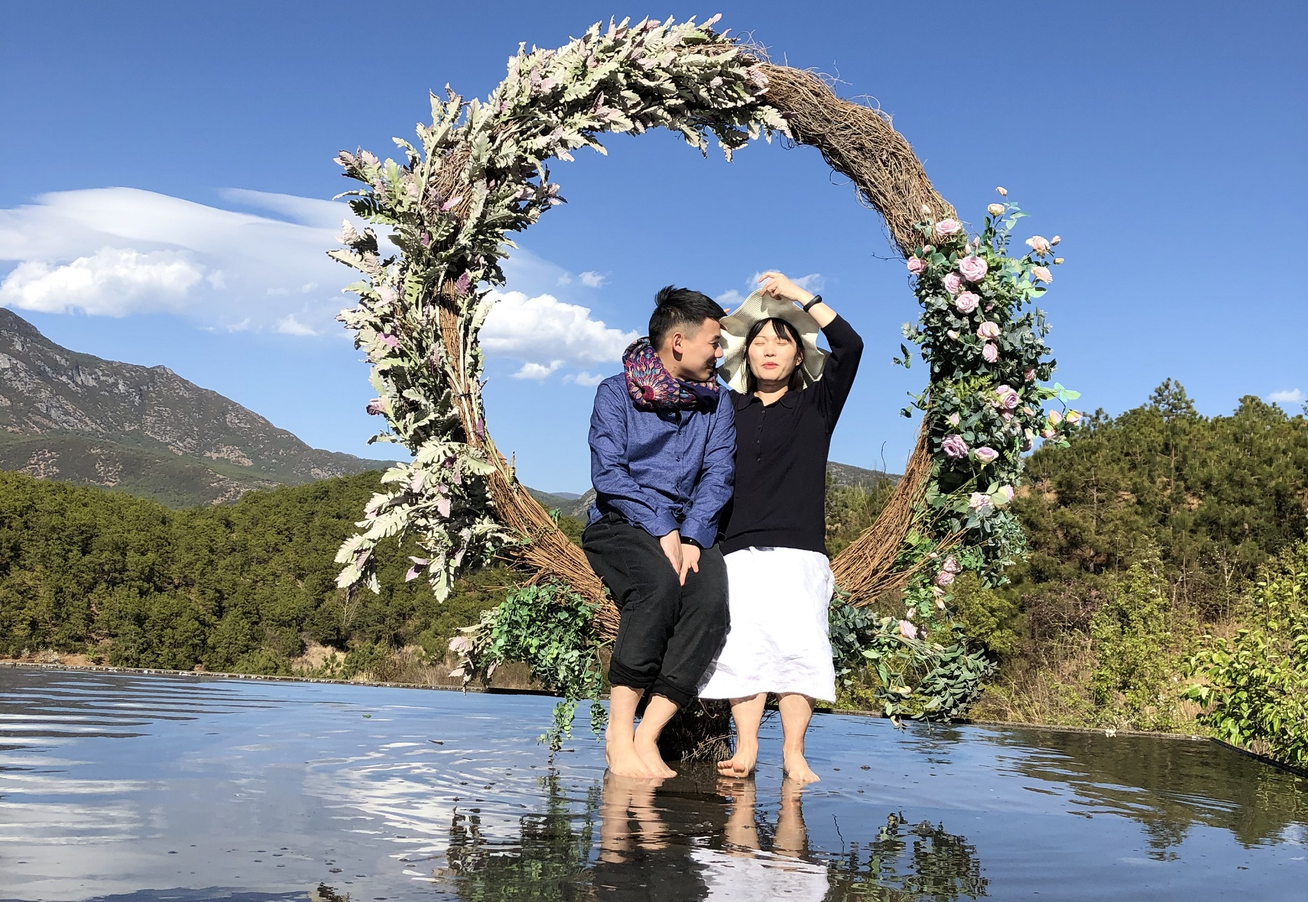
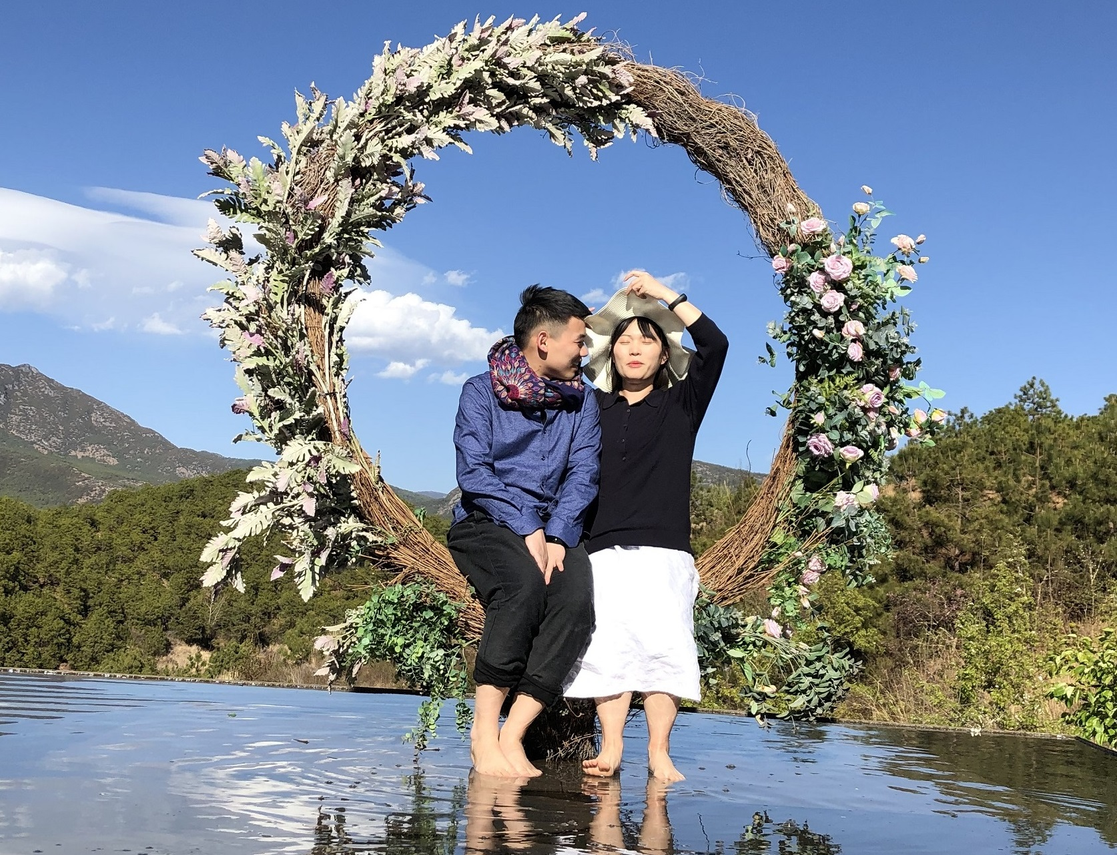
Site updated: 2020-04-03 17:39:28

diff --git a/index.html b/index.html
@@ -266,7 +266,7 @@
                   <i class="fa fa-calendar-check-o"></i>
                 </span>
                 <span class="post-meta-item-text">更新于</span>
-                <time title="修改时间：2020-04-03 15:48:20" itemprop="dateModified" datetime="2020-04-03T15:48:20+08:00">2020-04-03</time>
+                <time title="修改时间：2020-04-03 17:19:40" itemprop="dateModified" datetime="2020-04-03T17:19:40+08:00">2020-04-03</time>
               </span>
             <span class="post-meta-item">
               <span class="post-meta-item-icon">
@@ -348,7 +348,7 @@
                   <i class="fa fa-calendar-check-o"></i>
                 </span>
                 <span class="post-meta-item-text">更新于</span>
-                <time title="修改时间：2020-04-03 17:13:08" itemprop="dateModified" datetime="2020-04-03T17:13:08+08:00">2020-04-03</time>
+                <time title="修改时间：2020-04-03 17:37:06" itemprop="dateModified" datetime="2020-04-03T17:37:06+08:00">2020-04-03</time>
               </span>
             <span class="post-meta-item">
               <span class="post-meta-item-icon">
@@ -371,7 +371,7 @@
     <div class="post-body" itemprop="articleBody">
 
       
-          <p><img src="images\image_2020\ff1.JPG" align=center /></p>
+          <p><img src="images\image_2020\fj2.JPG" align=center /></p>
 <p>        摄像机的标定要从成像谈起。物理世界中的三维物体映射到二维图像上的位置与物体、相机的几何位置相关。而他们之间的相互关系取决于摄像机使用怎么样的成像几何模型。这些几何模型的参数便是所谓的摄像机参数…</p>
           <!--noindex-->
             <div class="post-button">
@@ -430,7 +430,7 @@
                   <i class="fa fa-calendar-check-o"></i>
                 </span>
                 <span class="post-meta-item-text">更新于</span>
-                <time title="修改时间：2020-04-03 15:49:51" itemprop="dateModified" datetime="2020-04-03T15:49:51+08:00">2020-04-03</time>
+                <time title="修改时间：2020-04-03 17:34:16" itemprop="dateModified" datetime="2020-04-03T17:34:16+08:00">2020-04-03</time>
               </span>
             <span class="post-meta-item">
               <span class="post-meta-item-icon">
@@ -453,10 +453,11 @@
     <div class="post-body" itemprop="articleBody">
 
       
-          <p>本文包括编写独立函数时需要注意的一些基本原则，以及开发过程中推荐的做法。每当我遇到更好的方法，推荐做法将会及时更新和补充。</p>
+          <p><img src="images/image_2020/fj3.jpg" align=center/></p>
+<p>本文包括编写独立函数时需要注意的一些基本原则，以及开发过程中推荐的做法。每当我遇到更好的方法，推荐做法将会及时更新和补充。</p>
           <!--noindex-->
             <div class="post-button">
-              <a class="btn" href="/2019/11/24/C++%E5%87%BD%E6%95%B0%E7%9A%84%E4%BD%BF%E7%94%A8%E5%B0%8F%E7%BB%86%E8%8A%82/">
+              <a class="btn" href="/2019/11/24/C++%E5%87%BD%E6%95%B0%E7%9A%84%E4%BD%BF%E7%94%A8%E5%B0%8F%E7%BB%86%E8%8A%82/#more" rel="contents">
                 阅读全文 &raquo;
               </a>
             </div>
@@ -511,7 +512,7 @@
                   <i class="fa fa-calendar-check-o"></i>
                 </span>
                 <span class="post-meta-item-text">更新于</span>
-                <time title="修改时间：2020-04-03 15:53:56" itemprop="dateModified" datetime="2020-04-03T15:53:56+08:00">2020-04-03</time>
+                <time title="修改时间：2020-04-03 17:17:40" itemprop="dateModified" datetime="2020-04-03T17:17:40+08:00">2020-04-03</time>
               </span>
             <span class="post-meta-item">
               <span class="post-meta-item-icon">
@@ -593,7 +594,7 @@
                   <i class="fa fa-calendar-check-o"></i>
                 </span>
                 <span class="post-meta-item-text">更新于</span>
-                <time title="修改时间：2020-04-03 17:13:04" itemprop="dateModified" datetime="2020-04-03T17:13:04+08:00">2020-04-03</time>
+                <time title="修改时间：2020-04-03 17:35:34" itemprop="dateModified" datetime="2020-04-03T17:35:34+08:00">2020-04-03</time>
               </span>
             <span class="post-meta-item">
               <span class="post-meta-item-icon">
@@ -616,7 +617,7 @@
     <div class="post-body" itemprop="articleBody">
 
       
-          <p><img src="images\image_2020\ff1.JPG" align=center /></p>
+          <p><img src="images\image_2020\fj4.JPG" align=center /></p>
           <!--noindex-->
             <div class="post-button">
               <a class="btn" href="/2019/10/13/PylonAPI%E6%A6%82%E8%BF%B0/#more" rel="contents">

diff --git a/2020/02/13/摄像机线性标定方法简述/index.html b/2020/02/13/摄像机线性标定方法简述/index.html
@@ -27,12 +27,12 @@
 <meta property="og:site_name" content="EZhang">
 <meta property="og:description" content="        摄像机的标定要从成像谈起。物理世界中的三维物体映射到二维图像上的位置与物体、相机的几何位置相关。而他们之间的相互关系取决于摄像机使用怎么样的成像几何模型。这些几何模型的参数便是所谓的摄像机参数…">
 <meta property="og:locale" content="zh_CN">
-<meta property="og:image" content="https://gusthestorm.github.io/2020/02/13/%E6%91%84%E5%83%8F%E6%9C%BA%E7%BA%BF%E6%80%A7%E6%A0%87%E5%AE%9A%E6%96%B9%E6%B3%95%E7%AE%80%E8%BF%B0/images/image_2020/ff1.JPG">
+<meta property="og:image" content="https://gusthestorm.github.io/2020/02/13/%E6%91%84%E5%83%8F%E6%9C%BA%E7%BA%BF%E6%80%A7%E6%A0%87%E5%AE%9A%E6%96%B9%E6%B3%95%E7%AE%80%E8%BF%B0/images/image_2020/fj2.JPG">
 <meta property="article:published_time" content="2020-02-13T08:07:42.000Z">
-<meta property="article:modified_time" content="2020-04-03T09:13:08.682Z">
+<meta property="article:modified_time" content="2020-04-03T09:37:06.242Z">
 <meta property="article:author" content="ZhangYi">
 <meta name="twitter:card" content="summary">
-<meta name="twitter:image" content="https://gusthestorm.github.io/2020/02/13/%E6%91%84%E5%83%8F%E6%9C%BA%E7%BA%BF%E6%80%A7%E6%A0%87%E5%AE%9A%E6%96%B9%E6%B3%95%E7%AE%80%E8%BF%B0/images/image_2020/ff1.JPG">
+<meta name="twitter:image" content="https://gusthestorm.github.io/2020/02/13/%E6%91%84%E5%83%8F%E6%9C%BA%E7%BA%BF%E6%80%A7%E6%A0%87%E5%AE%9A%E6%96%B9%E6%B3%95%E7%AE%80%E8%BF%B0/images/image_2020/fj2.JPG">
 
 <link rel="canonical" href="https://gusthestorm.github.io/2020/02/13/%E6%91%84%E5%83%8F%E6%9C%BA%E7%BA%BF%E6%80%A7%E6%A0%87%E5%AE%9A%E6%96%B9%E6%B3%95%E7%AE%80%E8%BF%B0/">
 
@@ -195,7 +195,7 @@
                   <i class="fa fa-calendar-check-o"></i>
                 </span>
                 <span class="post-meta-item-text">更新于</span>
-                <time title="修改时间：2020-04-03 17:13:08" itemprop="dateModified" datetime="2020-04-03T17:13:08+08:00">2020-04-03</time>
+                <time title="修改时间：2020-04-03 17:37:06" itemprop="dateModified" datetime="2020-04-03T17:37:06+08:00">2020-04-03</time>
               </span>
             <span class="post-meta-item">
               <span class="post-meta-item-icon">
@@ -225,7 +225,7 @@
     <div class="post-body" itemprop="articleBody">
 
       
-        <p><img src="images\image_2020\ff1.JPG" align=center /></p>
+        <p><img src="images\image_2020\fj2.JPG" align=center /></p>
 <p>        摄像机的标定要从成像谈起。物理世界中的三维物体映射到二维图像上的位置与物体、相机的几何位置相关。而他们之间的相互关系取决于摄像机使用怎么样的成像几何模型。这些几何模型的参数便是所谓的摄像机参数…</p>
 <a id="more"></a>
 <h3 id="摄像机标定（Camera-Calibration）-理论基础与线性标定方法简述"><a href="#摄像机标定（Camera-Calibration）-理论基础与线性标定方法简述" class="headerlink" title="摄像机标定（Camera Calibration）- 理论基础与线性标定方法简述"></a>摄像机标定（Camera Calibration）- 理论基础与线性标定方法简述</h3><p>        摄像机的标定要从成像谈起。物理世界中的三维物体映射到二维图像上的位置与物体、相机的几何位置相关。而他们之间的相互关系取决于摄像机使用怎么样的成像几何模型。这些几何模型的参数便是所谓的摄像机参数，这些参数的实验与计算过程就是所谓的摄像机标定。本次我们要讨论的是基于线性模型的摄像机标定。</p>

diff --git a/2019/11/24/C++函数的使用小细节/index.html b/2019/11/24/C++函数的使用小细节/index.html
@@ -27,10 +27,12 @@
 <meta property="og:site_name" content="EZhang">
 <meta property="og:description" content="本文包括编写独立函数时需要注意的一些基本原则，以及开发过程中推荐的做法。每当我遇到更好的方法，推荐做法将会及时更新和补充。">
 <meta property="og:locale" content="zh_CN">
+<meta property="og:image" content="https://gusthestorm.github.io/2019/11/24/C++%E5%87%BD%E6%95%B0%E7%9A%84%E4%BD%BF%E7%94%A8%E5%B0%8F%E7%BB%86%E8%8A%82/images/image_2020/fj3.jpg">
 <meta property="article:published_time" content="2019-11-24T13:37:55.000Z">
-<meta property="article:modified_time" content="2020-04-03T07:49:51.734Z">
+<meta property="article:modified_time" content="2020-04-03T09:34:16.538Z">
 <meta property="article:author" content="ZhangYi">
 <meta name="twitter:card" content="summary">
+<meta name="twitter:image" content="https://gusthestorm.github.io/2019/11/24/C++%E5%87%BD%E6%95%B0%E7%9A%84%E4%BD%BF%E7%94%A8%E5%B0%8F%E7%BB%86%E8%8A%82/images/image_2020/fj3.jpg">
 
 <link rel="canonical" href="https://gusthestorm.github.io/2019/11/24/C++%E5%87%BD%E6%95%B0%E7%9A%84%E4%BD%BF%E7%94%A8%E5%B0%8F%E7%BB%86%E8%8A%82/">
 
@@ -193,7 +195,7 @@
                   <i class="fa fa-calendar-check-o"></i>
                 </span>
                 <span class="post-meta-item-text">更新于</span>
-                <time title="修改时间：2020-04-03 15:49:51" itemprop="dateModified" datetime="2020-04-03T15:49:51+08:00">2020-04-03</time>
+                <time title="修改时间：2020-04-03 17:34:16" itemprop="dateModified" datetime="2020-04-03T17:34:16+08:00">2020-04-03</time>
               </span>
             <span class="post-meta-item">
               <span class="post-meta-item-icon">
@@ -213,7 +215,6 @@
               <span class="post-meta-item-text">阅读次数：</span>
               <span id="busuanzi_value_page_pv"></span>
             </span>
-            <div class="post-description">本文包括编写独立函数时需要注意的一些基本原则，以及开发过程中推荐的做法。每当我遇到更好的方法，推荐做法将会及时更新和补充。</div>
 
         </div>
       </header>
@@ -224,7 +225,10 @@
     <div class="post-body" itemprop="articleBody">
 
       
-        <h2 id="C-，函数的使用小细节"><a href="#C-，函数的使用小细节" class="headerlink" title="C++，函数的使用小细节"></a>C++，函数的使用小细节</h2><p>本文包括编写独立函数时需要注意的一些基本原则，以及开发过程中推荐的做法。</p>
+        <p><img src="images/image_2020/fj3.jpg" align=center/></p>
+<p>本文包括编写独立函数时需要注意的一些基本原则，以及开发过程中推荐的做法。每当我遇到更好的方法，推荐做法将会及时更新和补充。</p>
+<a id="more"></a>
+<h2 id="C-，函数的使用小细节"><a href="#C-，函数的使用小细节" class="headerlink" title="C++，函数的使用小细节"></a>C++，函数的使用小细节</h2><p>本文包括编写独立函数时需要注意的一些基本原则，以及开发过程中推荐的做法。</p>
 <p>每当我遇到更好的方法，推荐做法将会及时更新和补充。</p>
 <h4 id="函数的编写"><a href="#函数的编写" class="headerlink" title="函数的编写"></a>函数的编写</h4><p>返回类型、函数名、参数列表、返回值</p>
 <p>参数列表可以为空；</p>

diff --git a/2019/10/13/PylonAPI概述/index.html b/2019/10/13/PylonAPI概述/index.html
@@ -25,12 +25,12 @@
 <meta property="og:url" content="https://gusthestorm.github.io/2019/10/13/PylonAPI%E6%A6%82%E8%BF%B0/index.html">
 <meta property="og:site_name" content="EZhang">
 <meta property="og:locale" content="zh_CN">
-<meta property="og:image" content="https://gusthestorm.github.io/2019/10/13/PylonAPI%E6%A6%82%E8%BF%B0/images/image_2020/ff1.JPG">
+<meta property="og:image" content="https://gusthestorm.github.io/2019/10/13/PylonAPI%E6%A6%82%E8%BF%B0/images/image_2020/fj4.JPG">
 <meta property="article:published_time" content="2019-10-13T14:37:25.000Z">
-<meta property="article:modified_time" content="2020-04-03T09:13:04.408Z">
+<meta property="article:modified_time" content="2020-04-03T09:35:34.601Z">
 <meta property="article:author" content="ZhangYi">
 <meta name="twitter:card" content="summary">
-<meta name="twitter:image" content="https://gusthestorm.github.io/2019/10/13/PylonAPI%E6%A6%82%E8%BF%B0/images/image_2020/ff1.JPG">
+<meta name="twitter:image" content="https://gusthestorm.github.io/2019/10/13/PylonAPI%E6%A6%82%E8%BF%B0/images/image_2020/fj4.JPG">
 
 <link rel="canonical" href="https://gusthestorm.github.io/2019/10/13/PylonAPI%E6%A6%82%E8%BF%B0/">
 
@@ -193,7 +193,7 @@
                   <i class="fa fa-calendar-check-o"></i>
                 </span>
                 <span class="post-meta-item-text">更新于</span>
-                <time title="修改时间：2020-04-03 17:13:04" itemprop="dateModified" datetime="2020-04-03T17:13:04+08:00">2020-04-03</time>
+                <time title="修改时间：2020-04-03 17:35:34" itemprop="dateModified" datetime="2020-04-03T17:35:34+08:00">2020-04-03</time>
               </span>
             <span class="post-meta-item">
               <span class="post-meta-item-icon">
@@ -223,7 +223,7 @@
     <div class="post-body" itemprop="articleBody">
 
       
-        <p><img src="images\image_2020\ff1.JPG" align=center /></p>
+        <p><img src="images\image_2020\fj4.JPG" align=center /></p>
 <a id="more"></a>
 <p>Specification：basler acA1300-30gm</p>
 <h3 id="Pylon-API概述"><a href="#Pylon-API概述" class="headerlink" title="Pylon API概述"></a>Pylon API概述</h3><p>pylon API 基于 GenlCam 标准。</p>

diff --git a/2020/03/06/什么是底层、顶层const/index.html b/2020/03/06/什么是底层、顶层const/index.html
@@ -28,7 +28,7 @@
 <meta property="og:description" content="        底层const表示指针所指对象是一个常量；顶层const表示指针本身是一个常量。更一般地，顶层const可以表示任意类型的常量对象；底层const则与指针和引用这类复合类型的基本部分有关。指针类型可以同时是底层const和顶层const。">
 <meta property="og:locale" content="zh_CN">
 <meta property="article:published_time" content="2020-03-06T14:12:44.000Z">
-<meta property="article:modified_time" content="2020-04-03T07:48:20.577Z">
+<meta property="article:modified_time" content="2020-04-03T09:19:40.797Z">
 <meta property="article:author" content="ZhangYi">
 <meta name="twitter:card" content="summary">
 
@@ -193,7 +193,7 @@
                   <i class="fa fa-calendar-check-o"></i>
                 </span>
                 <span class="post-meta-item-text">更新于</span>
-                <time title="修改时间：2020-04-03 15:48:20" itemprop="dateModified" datetime="2020-04-03T15:48:20+08:00">2020-04-03</time>
+                <time title="修改时间：2020-04-03 17:19:40" itemprop="dateModified" datetime="2020-04-03T17:19:40+08:00">2020-04-03</time>
               </span>
             <span class="post-meta-item">
               <span class="post-meta-item-icon">

diff --git a/2019/10/13/C++小知识/index.html b/2019/10/13/C++小知识/index.html
@@ -28,7 +28,7 @@
 <meta property="og:description" content="一些初学者的笔记，包括基本的语法和关键字。">
 <meta property="og:locale" content="zh_CN">
 <meta property="article:published_time" content="2019-10-13T14:37:25.000Z">
-<meta property="article:modified_time" content="2020-04-03T07:53:56.114Z">
+<meta property="article:modified_time" content="2020-04-03T09:17:40.999Z">
 <meta property="article:author" content="ZhangYi">
 <meta name="twitter:card" content="summary">
 
@@ -193,7 +193,7 @@
                   <i class="fa fa-calendar-check-o"></i>
                 </span>
                 <span class="post-meta-item-text">更新于</span>
-                <time title="修改时间：2020-04-03 15:53:56" itemprop="dateModified" datetime="2020-04-03T15:53:56+08:00">2020-04-03</time>
+                <time title="修改时间：2020-04-03 17:17:40" itemprop="dateModified" datetime="2020-04-03T17:17:40+08:00">2020-04-03</time>
               </span>
             <span class="post-meta-item">
               <span class="post-meta-item-icon">

diff --git a/css/main.css b/css/main.css
@@ -1163,7 +1163,7 @@ pre .javascript .function {
 }
 .links-of-author a::before,
 .links-of-author span.exturl::before {
-  background: #998ad5;
+  background: #ff4ffb;
   border-radius: 50%;
   content: ' ';
   display: inline-block;
